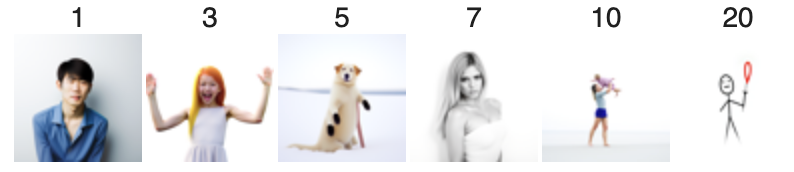
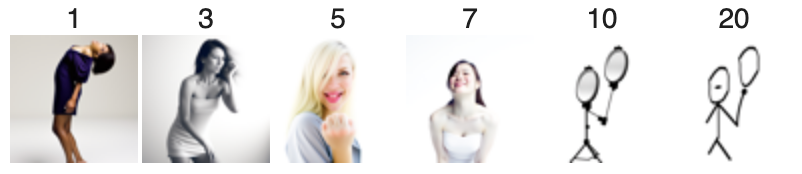
proj5a updates

diff --git a/5/web/index.html b/5/web/index.html
@@ -121,11 +121,11 @@
         </p>
 
         <figure class="figure-row">
-          <img src="./media/part1/iter_loop_90.png" alt="Noisy t=90" style="height: 180px;"/>
-          <img src="./media/part1/iter_loop_240.png" alt="Noisy t=240" style="height: 180px;"/>
-          <img src="./media/part1/iter_loop_390.png" alt="Noisy t=390" style="height: 180px;"/>
-          <img src="./media/part1/iter_loop_540.png" alt="Noisy t=540" style="height: 180px;"/>
-          <img src="./media/part1/iter_loop_690.png" alt="Noisy t=690" style="height: 180px;"/>
+          <img src="./media/part1/iter_loop5.png" alt="Noisy t=90" style="height: 100px;"/>
+          <img src="./media/part1/iter_loop4.png" alt="Noisy t=240" style="height: 100px;"/>
+          <img src="./media/part1/iter_loop3.png" alt="Noisy t=390" style="height: 100px;"/>
+          <img src="./media/part1/iter_loop2.png" alt="Noisy t=540" style="height: 100px;"/>
+          <img src="./media/part1/iter_loop1.png" alt="Noisy t=690" style="height: 100px;"/>
           <figcaption>Every 5th image in the iterative denoising loop starting from i_start=10.</figcaption>
         </figure>
 

diff --git a/index.html b/index.html
@@ -17,6 +17,6 @@
     <a href="./2/web/index.html">Project 2</a>
     <a href="./3/web/index.html">Project 3</a>
     <a href="./4/web/index.html">Project 4</a>
-    <a href="./4/web/index.html">Project 5A</a>
+    <a href="./5/web/index.html">Project 5A</a>
 </body>
 </html>
